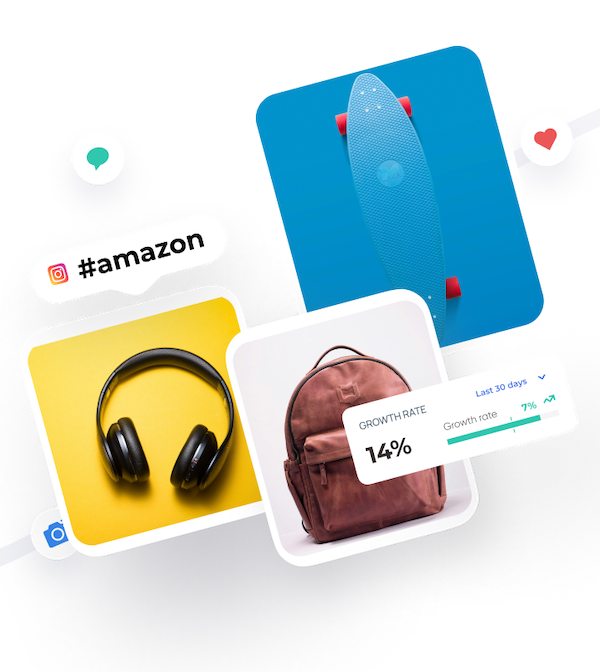
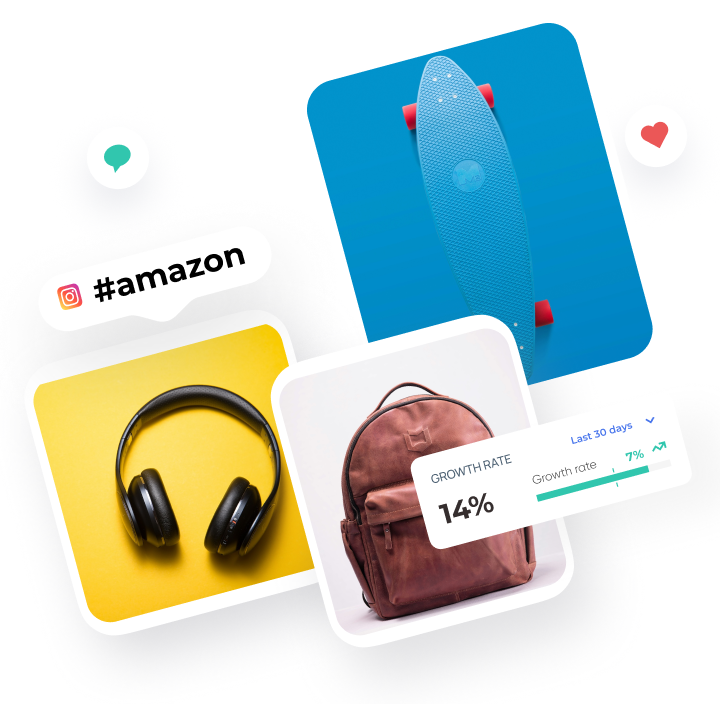
b3

diff --git a/assets/style.css b/assets/style.css
@@ -248,10 +248,9 @@ h3 {
 }
 
 .influencer__image {
-    inset: -15% auto auto -68%;
-    min-width: 1300px;
-    z-index: -1;
-    position: absolute;
+  position: absolute;
+  inset: 20% auto auto -12%;
+  min-width: calc(100vw);
 }
 
 .influencer__content {
@@ -708,12 +707,10 @@ textarea:focus {
     width: min(360px, 100%);
   }
 
-
   .influencer__image {
-      inset: auto;
-      position: unset;
+      inset: 0% auto auto 0%;
+      position: absolute;
       min-width: 100vw;
-      max-width: 100vw;
 }
 
   .contact__form {
@@ -768,7 +765,7 @@ textarea:focus {
   }
 
   .hero__collage {
-    height: 100px;
+    height: 270px;
   }
 
   .hero__content {
@@ -777,7 +774,7 @@ textarea:focus {
   }
 
   .hero__collage-card--main {
-    inset: -76% auto auto -11%;
+    inset: -32% auto auto -11%;
     min-width: calc(100vw + 30px);
   }
 
@@ -786,18 +783,24 @@ textarea:focus {
     width: 62%;
   }
 
-  .influencer__media {
-    width: min(320px, 100%);
+  .influencer {
+    flex-direction: column-reverse;
   }
 
+  .influencer__media {
+    min-height: 700px;
+  }
+
+  .influencer__content {
+    margin: 0px;
+  }
   .faq__question {
-    flex-direction: column;
     align-items: flex-start;
-    gap: 9.6px;
+    gap: 10px;
   }
 
   .brand-showcase {
-    gap: 35.2px;
+    gap: 35px;
   }
 
   .testimonial::before {
